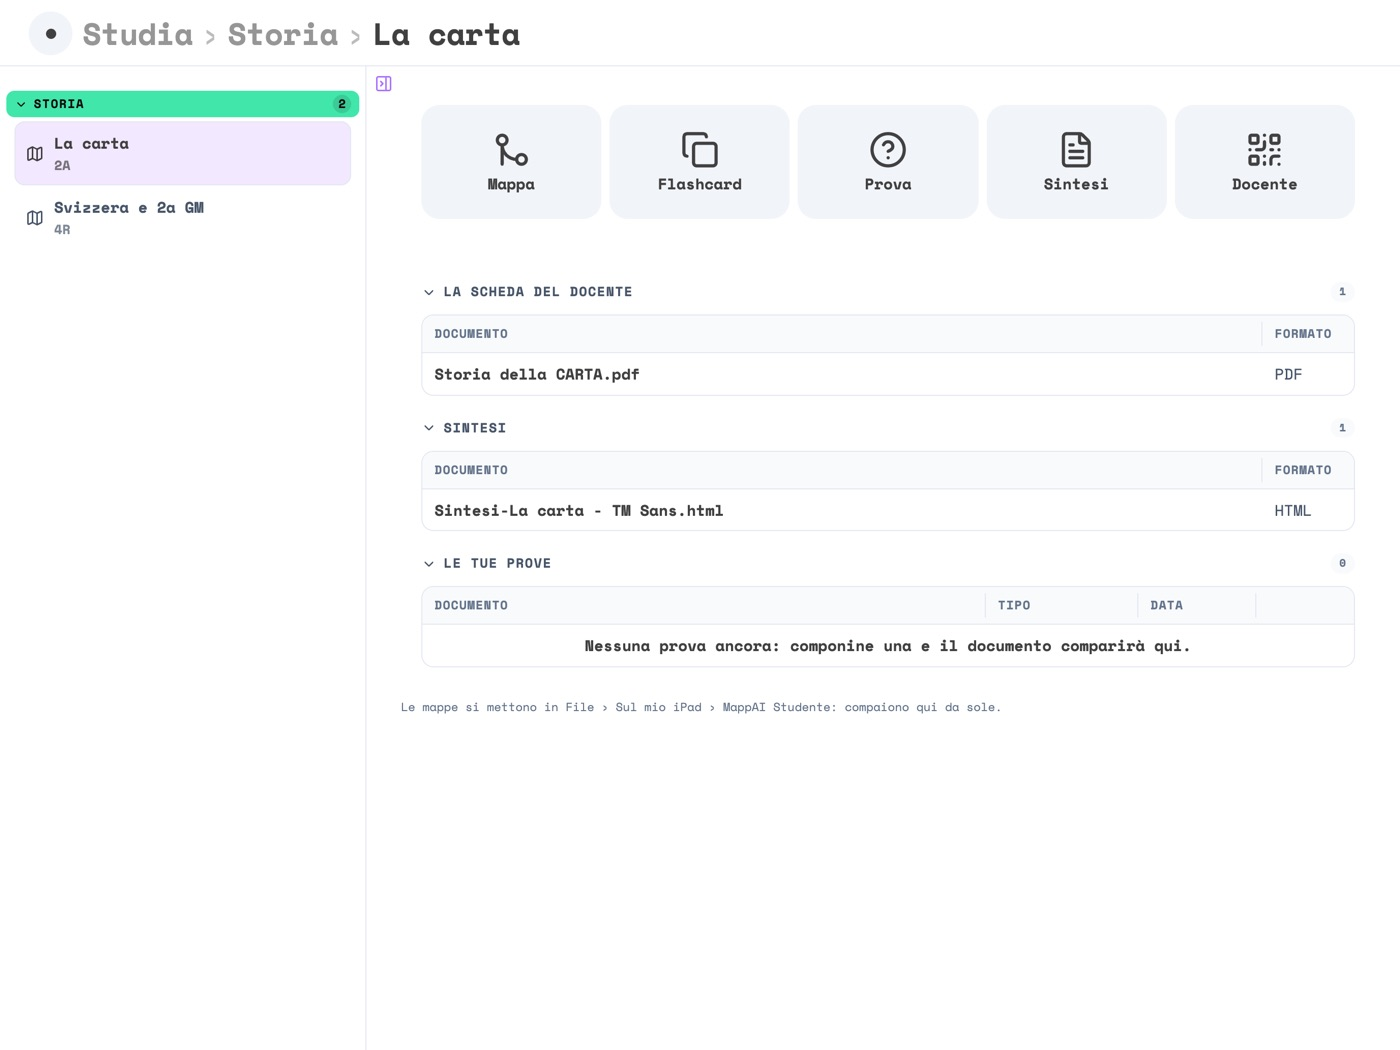
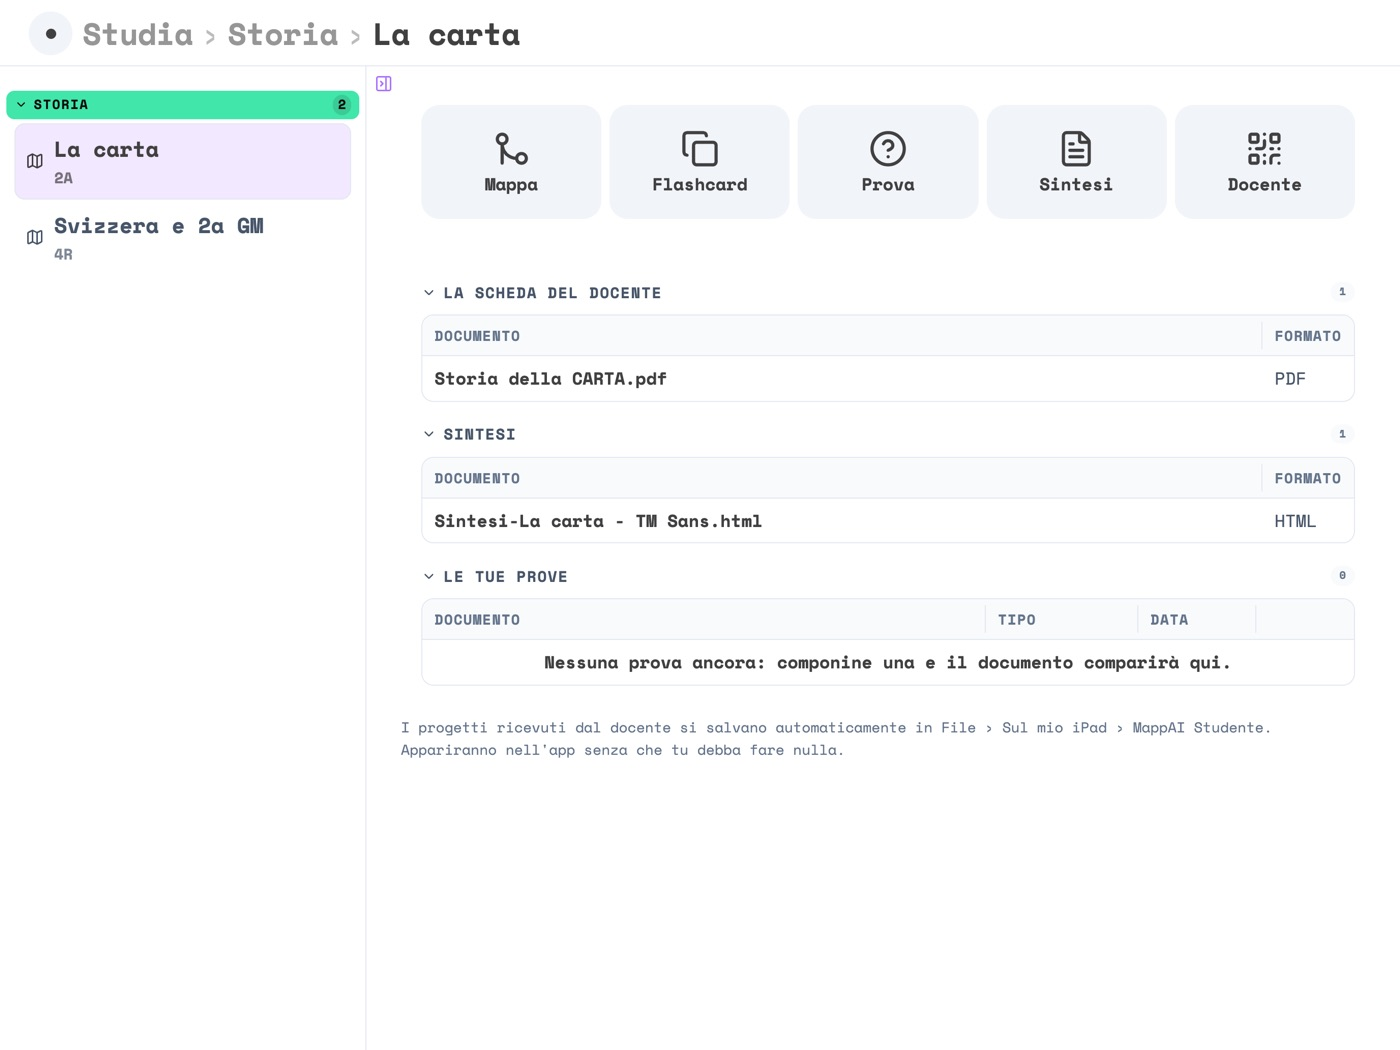
feat(studente): testi più grandi, il QR come cerchio, la nota riscritta
- Sidebar: i nomi delle mappe 19 → 21 px; tutti i modali salgono di un gradino
  (titoli, voci, note, campi, bottoni) — solo qui, i token restano di MappAI.
- «Ricevi dal docente»: un cerchio da 268 px con l'icona a 76 e l'etichetta a
  18 px, al centro della console quando non c'è una mappa scelta.
- La nota sotto il cerchio dice dove finiscono i progetti ricevuti, su due
  righe centrate.
- Campagna App Store: passo nuovo «00-landing» e tutte le foto rifatte nei due
  orientamenti; quelle del sito rigenerate da lì.

diff --git a/public/css/studente.css b/public/css/studente.css
@@ -154,7 +154,7 @@ html.studente .mn-bento-area .mn-cmd { min-height: 112px; gap: 6px; padding: 10p
 html.studente .mn-bento-area .mn-cmd > svg { width: 38px; height: 38px; opacity: 1 !important; transition: none; }
 html.studente .mn-bento-area .mn-cmd > span {
   position: static; opacity: 1 !important; transform: none; transition: none;
-  font-size: 15px !important; line-height: 1.15; white-space: normal;
+  font-size: 17px !important; line-height: 1.15; white-space: normal;
 }
 html.studente .mn-bento-area .mn-card[data-mod="mappa-azioni"] { min-height: 0; }
 
@@ -197,22 +197,21 @@ html.studente #studente-dock.sd--destra .sd-man { top: env(safe-area-inset-top, 
    in piedi, fino a 360 sdraiato. */
 html.studente .mm-box--console {
   --mm-console-side: clamp(272px, 30vw, 360px);
-  --mm-btn-fs: 15px;
-  --mm-icona: 22px;
+  --mm-btn-fs: 17px;
+  --mm-icona: 24px;
 }
-html.studente .mm-box--console > .mm-head .mm-subtitle { font-size: 14px; }
+html.studente .mm-box--console > .mm-head .mm-subtitle { font-size: 16px; }
 html.studente .mm-box--console .mm-nav__g,
 html.studente .mm-box--console .mm-nav__g--tog,
-html.studente .mm-box--console .mm-nav__gn { font-size: 12px; }
-html.studente .mm-box--console .mm-nav__s { font-size: 13px; }
-html.studente .mm-box--console .mm-tabg__t { font-size: 13px; }
-html.studente .mm-box--console .mm-tab { font-size: 15px; }
-html.studente .mm-box--console .mm-tab th { font-size: 12px; }
+html.studente .mm-box--console .mm-nav__gn { font-size: 13px; }
+html.studente .mm-box--console .mm-tabg__t { font-size: 15px; }
+html.studente .mm-box--console .mm-tab { font-size: 17px; }
+html.studente .mm-box--console .mm-tab th { font-size: 14px; }
 /* iPad in piedi (768 px): con la colonna a 272 all'area restano ~500 px e a 15 px
    «Flashcard» usciva dal suo riquadro. Sotto i 900 px un gradino in meno. */
 @media (max-width: 900px) {
-  html.studente .mm-box--console { --mm-btn-fs: 14px; }
-  html.studente .mn-bento-area .mn-cmd > span { font-size: 12px !important; }
+  html.studente .mm-box--console { --mm-btn-fs: 16px; }
+  html.studente .mn-bento-area .mn-cmd > span { font-size: 14px !important; }
   html.studente .mm-box--console .mm-tab { font-size: 14px; }
   html.studente .mm-box--console .mm-tab th { font-size: 11px; }
 }
@@ -222,10 +221,22 @@ html.studente .mm-box--console .mm-tab th { font-size: 12px; }
    della scheda del nodo e del pannello sulla mappa: qui solo il posto nella testata. */
 #studente-dock .sd-fila { display: flex; flex: 1 1 auto; min-width: 0; }
 
-/* «Ricevi dal docente» al centro della console senza mappa scelta (17/9) */
+/* «Ricevi dal docente» al centro della console senza mappa scelta (17/9).
+   Dal 21/9 è un CERCHIO grande: è il primo e unico gesto di chi apre l'app la
+   prima volta, e un bersaglio tondo al centro dello schermo non si confonde
+   con i riquadri dei comandi. Sotto, centrata, la nota che dice dove finiscono
+   le mappe ricevute (due righe: la misura del testo è tarata su quello). */
 html.studente .mm-console__area:has(> .mn-bento-area [data-mod="ricevi"]) { display: flex; flex-direction: column; justify-content: center; }
-html.studente .mn-card[data-mod="ricevi"] { max-width: 420px; width: 100%; margin: 0 auto; }
-html.studente .mn-card[data-mod="ricevi"] .mn-cmd { font-size: 18px; }
+html.studente .mn-card[data-mod="ricevi"] { max-width: 420px; width: 100%; margin: 0 auto; background: transparent; }
+html.studente .mn-card[data-mod="ricevi"] .mn-cmd {
+  width: 268px; height: 268px; min-height: 0; margin: 0 auto; padding: 18px;
+  border-radius: 50%; gap: 12px; font-size: 18px;
+}
+html.studente .mn-card[data-mod="ricevi"] .mn-cmd > svg { width: 76px; height: 76px; }
+html.studente .mn-card[data-mod="ricevi"] .mn-cmd > span { font-size: 18px !important; }
+html.studente .mm-console__area:has(> .mn-bento-area [data-mod="ricevi"]) > .mm-piede-nota {
+  max-width: 660px; margin: 20px auto 0; text-align: center; text-wrap: balance;
+}
 
 /* ── i modali dello scambio col docente, per chi ha 11-12 anni (17/9) ──────
    Riconosciuti dalle sezioni `sc-*` (scambio-core): caratteri più grandi,
@@ -249,6 +260,28 @@ html.studente .mm-box:has([data-sez^="sc-"]) .mm-foot .mm-btn { font-size: 18px;
 #sc-velo .sc-velo__b { height: 14px; }
 #sc-velo .sc-velo__x { font-size: 17px; min-height: 48px; }
 
-/* la sidebar della console: i nomi dei progetti +25% (15 → 19 px), 17/9 */
-html.studente .mm-box--console .mm-nav__t { font-size: 19px; }
-html.studente .mm-box--console .mm-nav__s { font-size: 14px; }
+/* la sidebar della console: i nomi dei progetti 15 → 19 px (17/9) → 21 px (21/9) */
+html.studente .mm-box--console .mm-nav__t { font-size: 21px; }
+html.studente .mm-box--console .mm-nav__s { font-size: 15px; }
+
+/* ── la scala dei TESTI in tutti i modali (21/9) ──────────────────────────
+   Non solo la console: ogni modale dell'app è letto da un ragazzo di 11-13
+   anni su un iPad tenuto in mano. I corpi del motore salgono di un gradino,
+   qui e non nei token, perché di là valgono anche per MappAI del docente. */
+html.studente .mm-box { --mm-btn-fs: 16px; }
+html.studente .mm-box .mm-title { font-size: 20px; }
+html.studente .mm-box .mm-subtitle { font-size: 15px; }
+html.studente .mm-box .mm-sez__t { font-size: 12px; }
+html.studente .mm-box .mm-voce__n { font-size: 17px; }
+html.studente .mm-box .mm-voce__s { font-size: 14px; }
+html.studente .mm-box .mm-testo,
+html.studente .mm-box .mm-sez p { font-size: 16px; line-height: 1.5; }
+html.studente .mm-box .mm-nota,
+html.studente .mm-box .mm-piede-nota { font-size: 14px; }
+html.studente .mm-box .mm-campo__e,
+html.studente .mm-box label { font-size: 15px; }
+html.studente .mm-box input[type="text"],
+html.studente .mm-box input:not([type]),
+html.studente .mm-box textarea,
+html.studente .mm-box select { font-size: 18px; }
+html.studente .mm-box .mm-foot .mm-btn { font-size: 16px; }

diff --git a/docs/sito/mappai/studente/index.html b/docs/sito/mappai/studente/index.html
@@ -529,11 +529,18 @@
                     quando vuole, anche a casa e senza connessione.</li>
             </ol>
 
-            <figure class="mp-figure">
-                <img class="shot" src="assets/mappai-studente/01-console.jpg"
-                    alt="La schermata iniziale di MappAI Studente: le mappe per materia a sinistra e i comandi della mappa scelta">
-                <figcaption>La schermata iniziale: le mappe ricevute, per materia, e i cinque comandi di quella scelta.</figcaption>
-            </figure>
+            <div class="mp-duo">
+                <figure class="mp-figure" style="margin:0">
+                    <img class="shot" src="assets/mappai-studente/00-landing.jpg"
+                        alt="La schermata di apertura di MappAI Studente: il cerchio «Ricevi dal docente» al centro">
+                    <figcaption>All'apertura c'è un gesto solo: il cerchio che riceve la mappa dal docente.</figcaption>
+                </figure>
+                <figure class="mp-figure" style="margin:0">
+                    <img class="shot" src="assets/mappai-studente/01-console.jpg"
+                        alt="Una mappa scelta in MappAI Studente: i cinque comandi e l'elenco dei materiali">
+                    <figcaption>Scelta una mappa: i cinque comandi e i materiali che il docente ha mandato.</figcaption>
+                </figure>
+            </div>
         </div>
     </section>
 

diff --git a/public/js/studente/studia-core.js b/public/js/studente/studia-core.js
@@ -158,14 +158,14 @@
            docente» (Giacomo, 17/9): è il primo gesto dell'allievo, e in fondo non si vedeva */
         if (!prog && o.scambio !== false) {
             s.bento = [{
-                id: 'ricevi', nuda: true, span: 4, altezza: 220,
+                id: 'ricevi', nuda: true, span: 4, altezza: 300,
                 stile: { bg: 'transparent', testo: '#404040', bordoPx: 0 },
                 bottoni: { bg: '#f1f4f8', testo: '#404040', hoverBg: '#41e6aa', hoverTesto: '#0b0b0b' },
                 layout: { colonneVoci: 1 },
                 voci: [{ id: 'docente', et: t('st_ricevi', 'Ricevi dal docente'), forma: 'azione', icona: 'qr-code', chiude: false, aiuto: t('st_tip_ricevi', 'Inquadra il QR del docente: la mappa arriva qui.') }]
             }];
         }
-        if (o.ipad) s.nota = t('st_nota_ipad', 'Le mappe si mettono in File › Sul mio iPad › MappAI Studente: compaiono qui da sole.');
+        if (o.ipad) s.nota = t('st_nota_ipad', 'I progetti ricevuti dal docente si salvano automaticamente in File › Sul mio iPad › MappAI Studente. Appariranno nell\'app senza che tu debba fare nulla.');
         if (prog) {
             /* l'area a BENTO, identica a quella di una mappa in INSEGNA (`_consBentoMappa`
                di mappai-landing-teach.js): il riquadro dei comandi con gli stessi colori e

diff --git a/public/index.html b/public/index.html
@@ -58,7 +58,7 @@
          resta visibile, tetto di larghezza). Dopo la veste: ne usa i token. -->
     <link rel="stylesheet" href="css/mappai-console-manifesto.css?v=sync-20260916">
     <!-- la veste dello studente: bersagli a 44px, il dock, la console STUDIA -->
-    <link rel="stylesheet" href="css/studente.css?v=bimbi2">
+    <link rel="stylesheet" href="css/studente.css?v=grande1">
 
     <!-- ⚠ BOOT DELLA VESTE, e perché sta QUI (5/8/26) ─────────────────────────
          Le classi `manifesto` e `mappai-ridotta` le mettevano i due moduli a
@@ -1575,7 +1575,7 @@
     <script src="js/studente/prova-pdf.js?v=st35"></script>
     <script src="js/studente/launcher-core.js?v=st36"></script>
     <script src="js/studente/autotest.js?v=st36"></script>
-    <script src="js/studente/studia-core.js?v=ricevi3"></script>
+    <script src="js/studente/studia-core.js?v=grande1"></script>
     <script src="js/studente/console.js?v=st35"></script>
     <script src="js/studente/cabina.js?v=st36"></script>
     <script src="js/studente/scambio-core.js?v=bimbi1"></script>

diff --git a/tools/appstore/campagna.js b/tools/appstore/campagna.js
@@ -133,6 +133,15 @@ async function daCapo() {
   await L.pausa(7000);
   await aspettaTesto('Svizzera e 2a GM', 20000);
 
+  /* la casa dello studente APPENA APERTA (21/9): nessuna mappa scelta, il cerchio
+     «Ricevi dal docente» al centro e sotto la nota che dice dove finiscono i file */
+  await passo('00-landing', async () => {
+    await daCapo();
+    await L.finoA(`!!document.querySelector('.mn-card[data-mod="ricevi"]')`, 8000);
+    await L.pausa(1200);
+    await foto('00-landing');
+  });
+
   await passo('01-console', async () => {
     await toccaTesto('La carta2A', { sel: 'button' });
     await aspettaTesto('Le tue prove');
